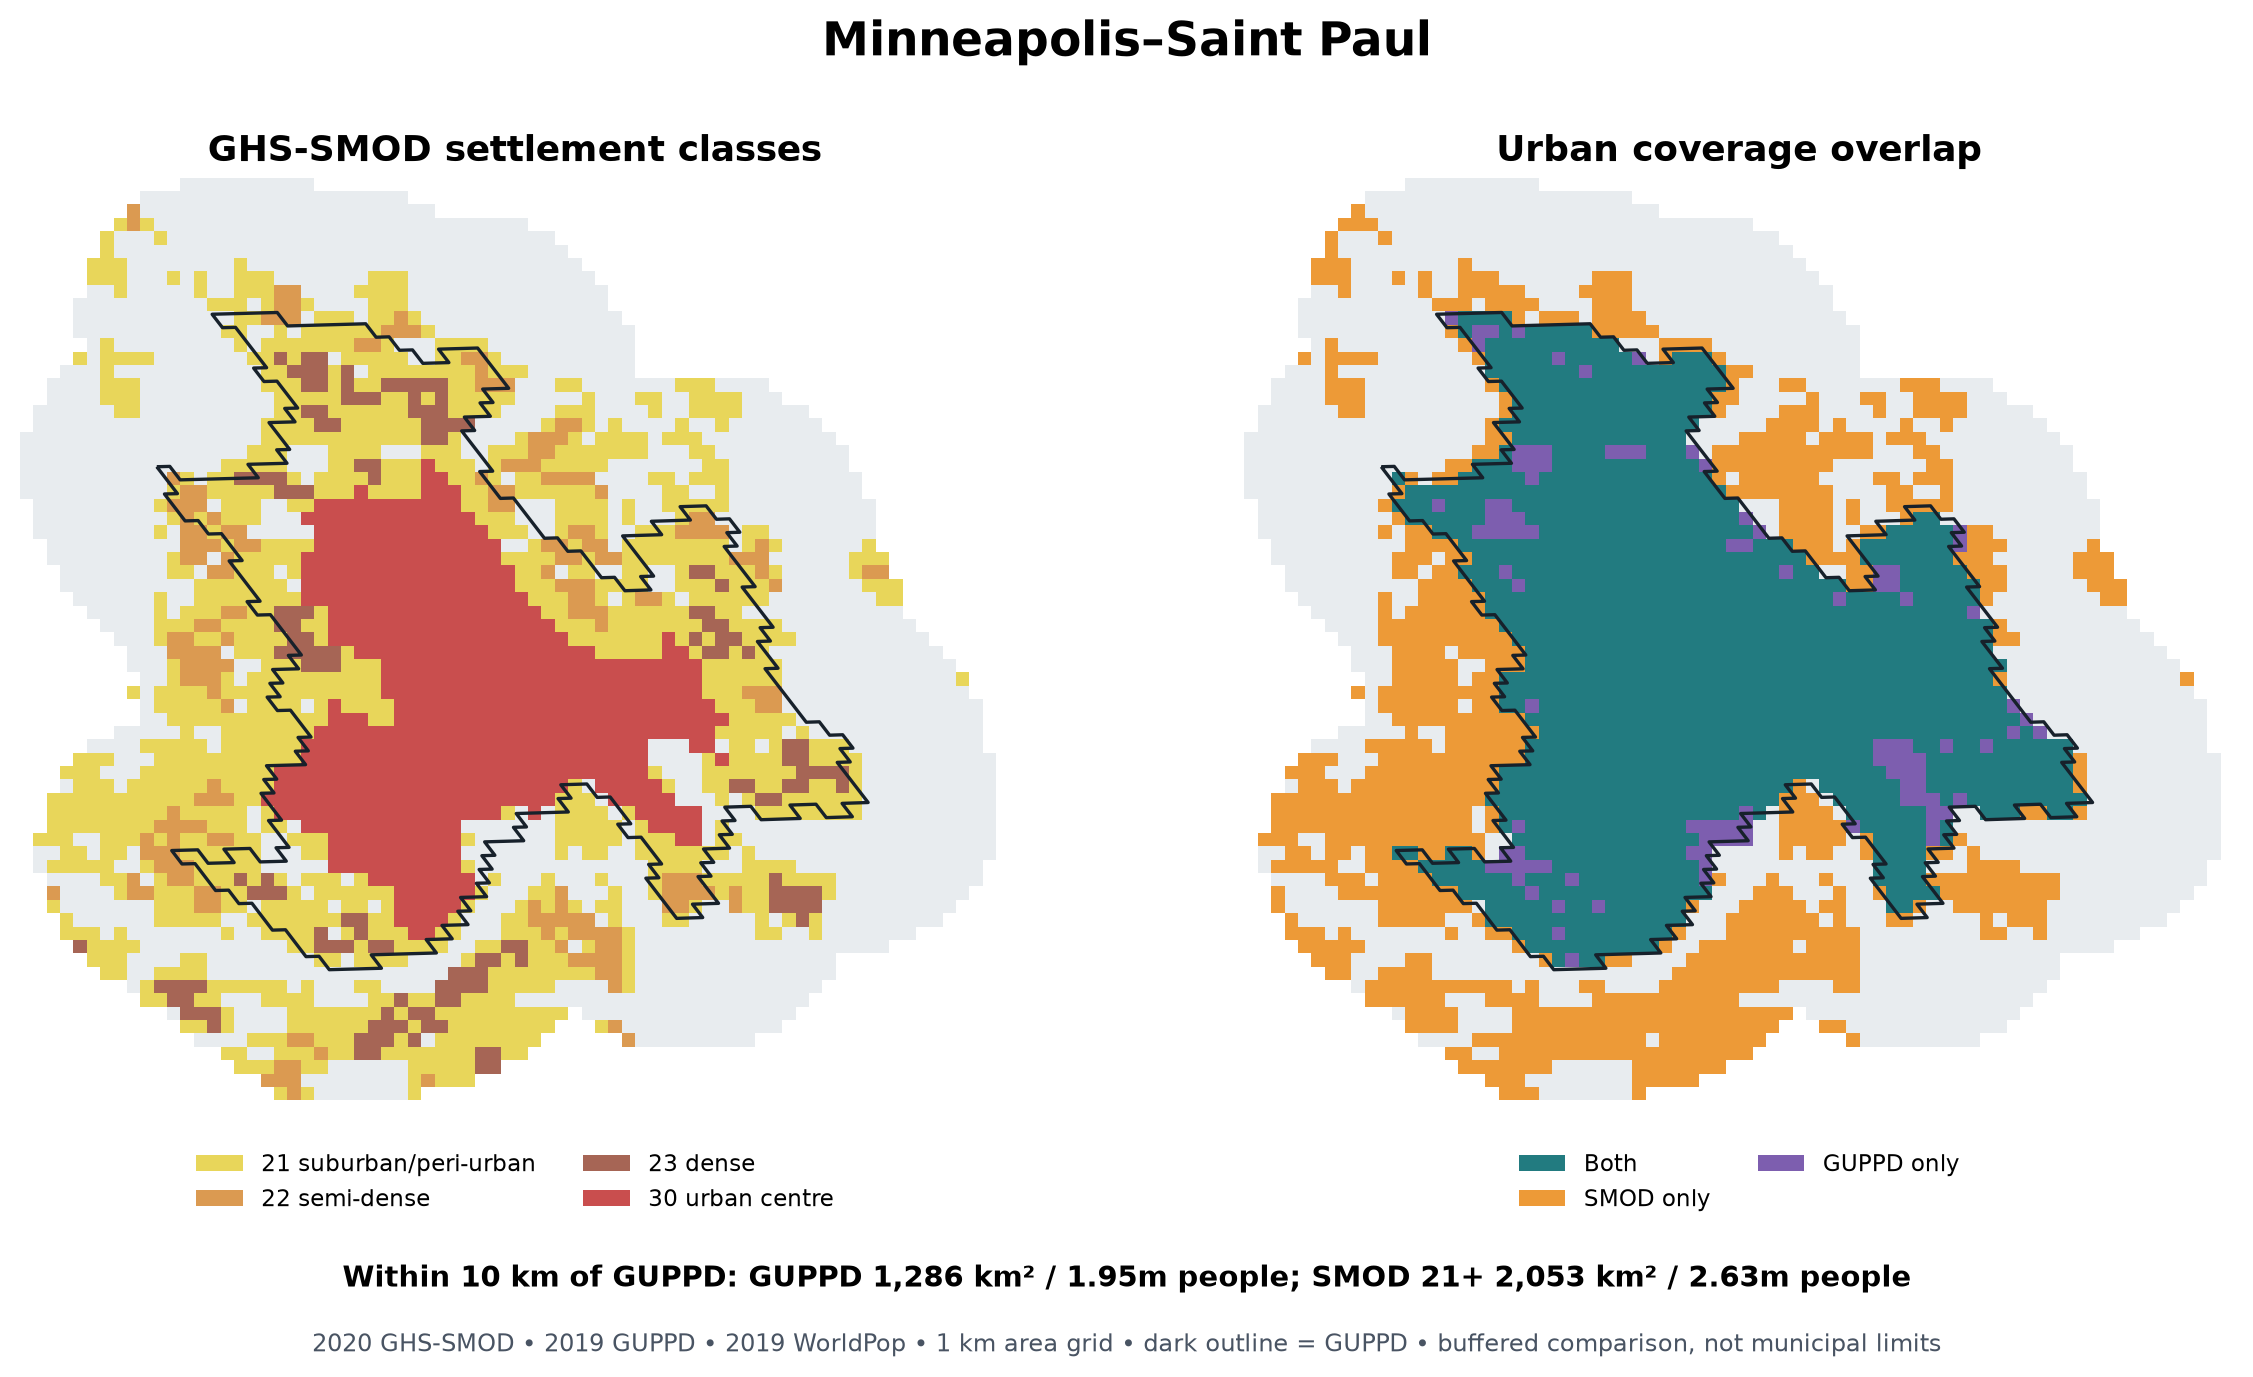
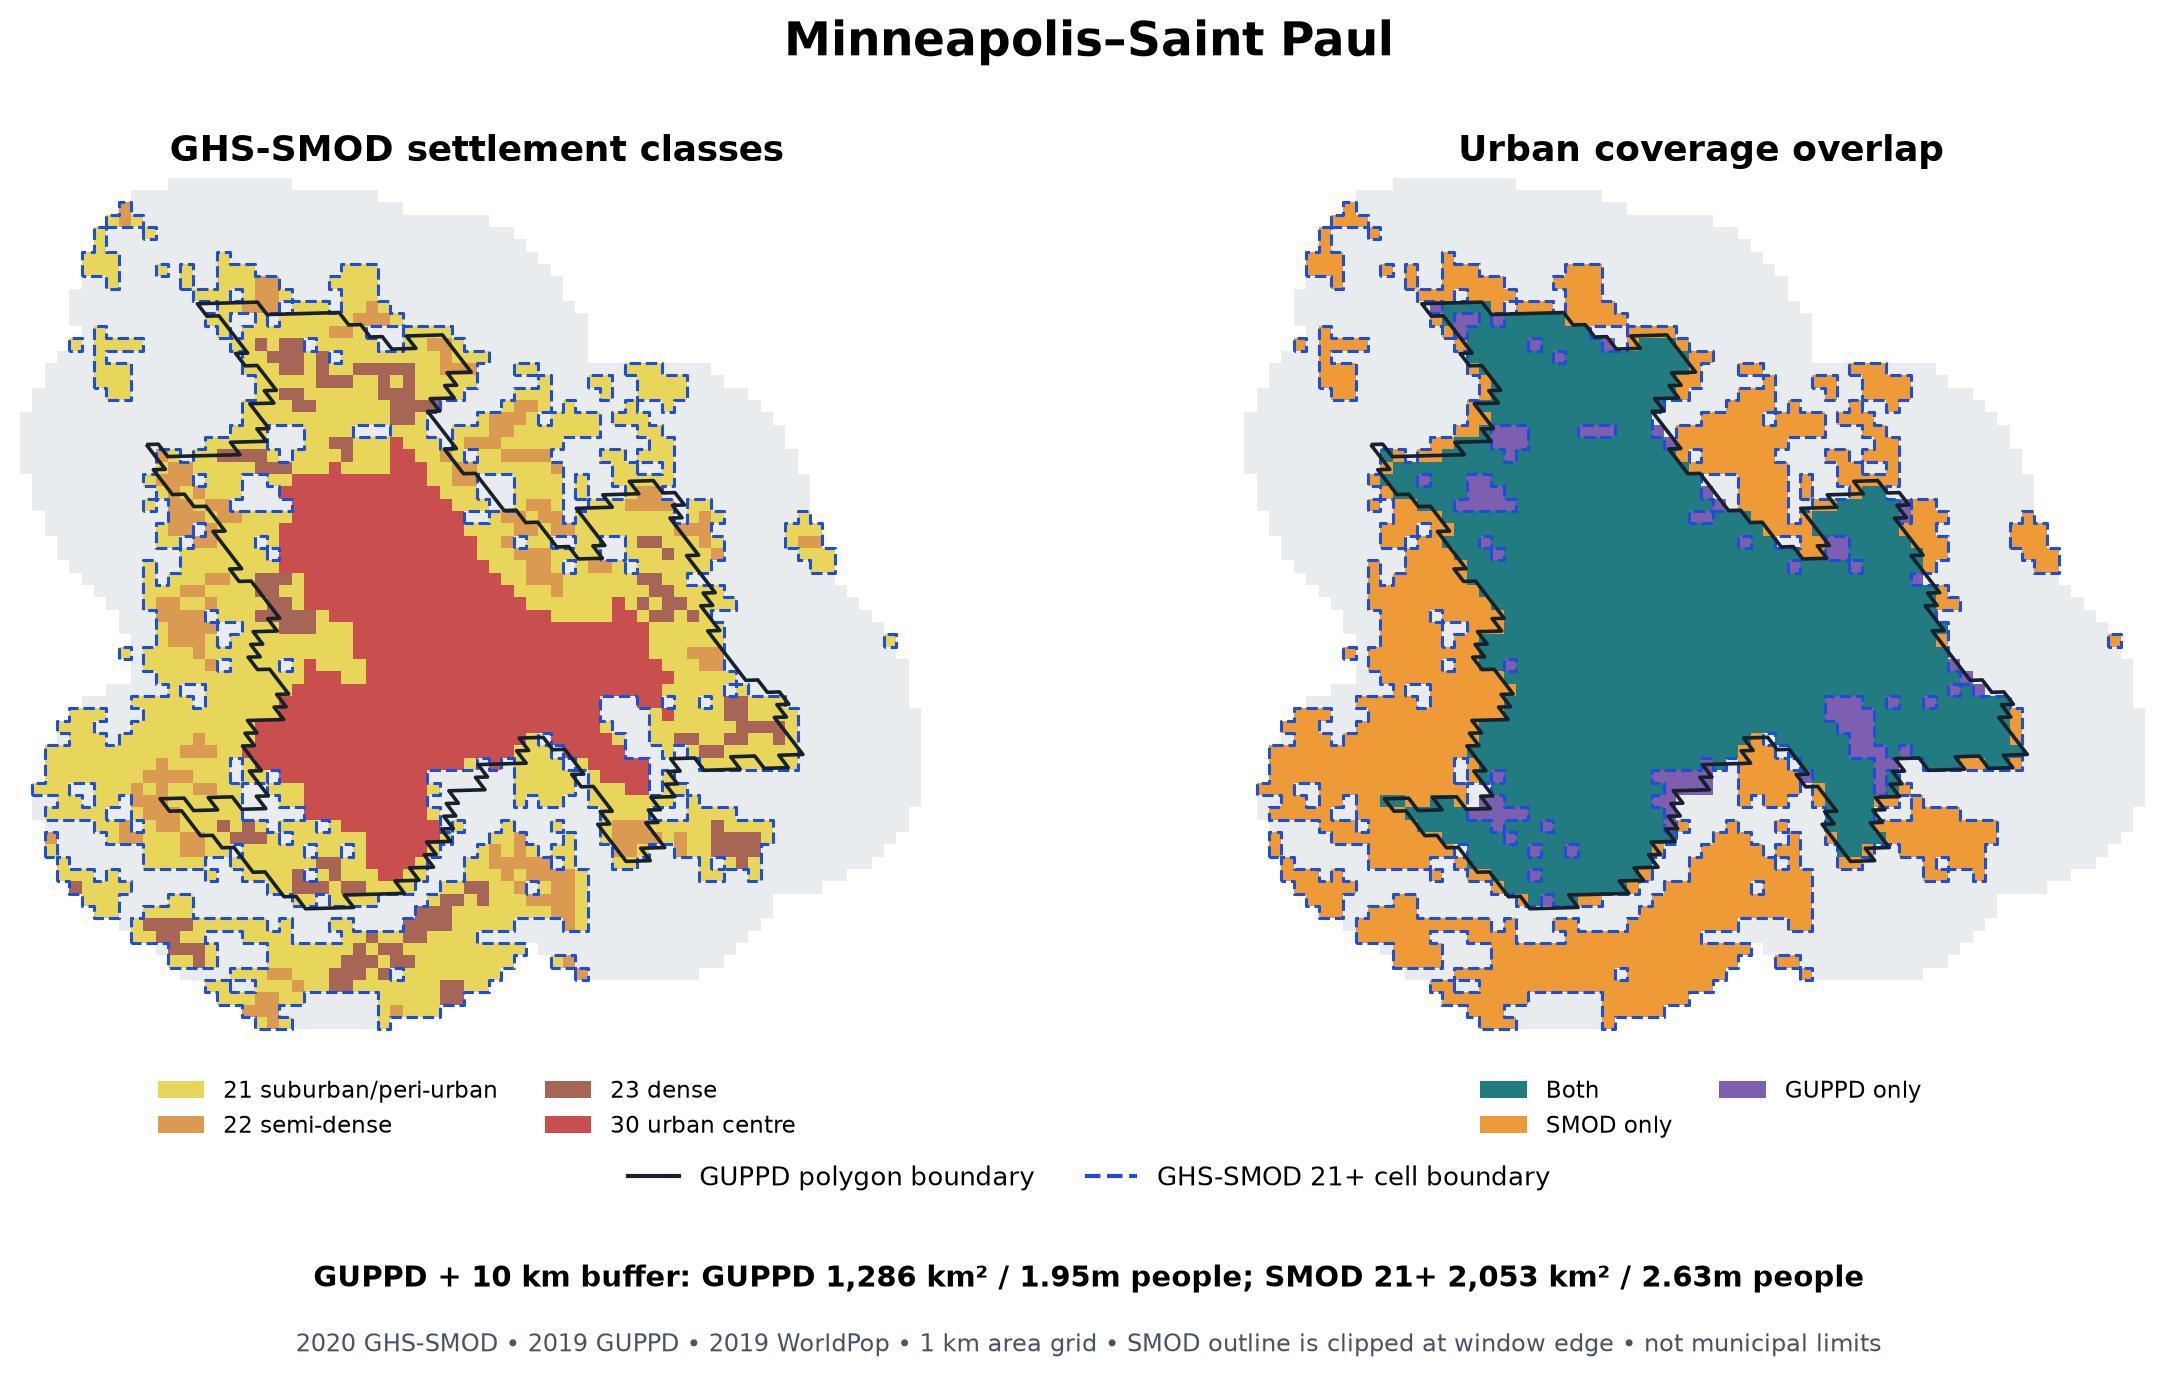
docs: clarify city comparison window and map boundaries

diff --git a/scripts/03_checks/compare_smod_guppd_cities.py b/scripts/03_checks/compare_smod_guppd_cities.py
@@ -24,12 +24,13 @@ matplotlib.use('Agg')
 import matplotlib.pyplot as plt
 from matplotlib.colors import ListedColormap
 from matplotlib.patches import Patch
+from matplotlib.lines import Line2D
 import numpy as np
 import rasterio
-from rasterio.features import geometry_mask
+from rasterio.features import geometry_mask, shapes
 from rasterio.warp import Resampling, reproject
 from rasterio.windows import from_bounds
-from shapely.geometry import box, mapping
+from shapely.geometry import box, mapping, shape
 
 ROOT = Path(__file__).resolve().parents[2]
 DATA = ROOT / 'data'
@@ -116,16 +117,26 @@ def plot_city(path: Path, label: str, smod, src, polygon, in_buffer, in_guppd, i
     extent = (src.bounds.left, src.bounds.right,
               src.bounds.bottom, src.bounds.top)
     fig, axes = plt.subplots(1, 2, figsize=(12.6, 7.2))
-    fig.subplots_adjust(left=0.03, right=0.97, top=0.87, bottom=0.22, wspace=0.07)
+    fig.subplots_adjust(left=0.03, right=0.97, top=0.87, bottom=0.27, wspace=0.07)
     class_cmap = ListedColormap(['#e8ecef', '#e8d65a', '#db9a51', '#a66555', '#c94e4e', '#ffffff'])
     overlap_cmap = ListedColormap(['#e8ecef', '#227b80', '#ed9a37', '#7d5eaf', '#ffffff'])
     axes[0].imshow(class_image, cmap=class_cmap, vmin=0, vmax=5,
                    interpolation='nearest', extent=extent, origin='upper')
     axes[1].imshow(overlap, cmap=overlap_cmap, vmin=0, vmax=4,
                    interpolation='nearest', extent=extent, origin='upper')
-    boundary = gpd.GeoSeries([polygon], crs=5070).boundary
+    # Vectorize the selected SMOD cells so its outline follows actual 1 km cell
+    # edges. This is the mask clipped to the 10 km display window, not a named city.
+    smod_polygons = [shape(geometry) for geometry, value in shapes(
+        in_smod.astype('uint8'), mask=in_smod, transform=src.transform)
+        if value == 1]
+    smod_boundary = gpd.GeoSeries(smod_polygons, crs=5070).boundary
+    guppd_boundary = gpd.GeoSeries([polygon], crs=5070).boundary
     for ax in axes:
-        boundary.plot(ax=ax, color='#17212b', linewidth=1.2)
+        smod_boundary.plot(ax=ax, color='#1d4ed8', linewidth=1.1,
+                           linestyle='--', zorder=4)
+        guppd_boundary.plot(ax=ax, color='#17212b', linewidth=1.3, zorder=5)
+        ax.set_xlim(src.bounds.left, src.bounds.right)
+        ax.set_ylim(src.bounds.bottom, src.bounds.top)
         ax.set_aspect('equal')
         ax.set_xticks([])
         ax.set_yticks([])
@@ -143,14 +154,21 @@ def plot_city(path: Path, label: str, smod, src, polygon, in_buffer, in_guppd, i
         ('#7d5eaf', 'GUPPD only')]], loc='upper center', bbox_to_anchor=(0.5, -0.02), ncol=2,
         fontsize=8.4, frameon=False)
     fig.suptitle(label, fontsize=17, weight='bold')
+    fig.legend(handles=[
+        Line2D([0], [0], color='#17212b', linewidth=1.5,
+               label='GUPPD polygon boundary'),
+        Line2D([0], [0], color='#1d4ed8', linewidth=1.5, linestyle='--',
+               label='GHS-SMOD 21+ cell boundary'),
+    ], loc='lower center', bbox_to_anchor=(0.5, 0.15), ncol=2,
+        frameon=False, fontsize=9.2)
     fig.text(0.5, 0.10,
-             f"Within 10 km of GUPPD: GUPPD {area['guppd']:,.0f} km² / "
+             f"GUPPD + 10 km buffer: GUPPD {area['guppd']:,.0f} km² / "
              f"{population['guppd']/1e6:.2f}m people; SMOD 21+ "
              f"{area['smod_21_plus']:,.0f} km² / {population['smod_21_plus']/1e6:.2f}m people",
              ha='center', fontsize=10.5, weight='bold')
     fig.text(0.5, 0.055,
              '2020 GHS-SMOD • 2019 GUPPD • 2019 WorldPop • 1 km area grid • '
-             'dark outline = GUPPD • buffered comparison, not municipal limits',
+             'SMOD outline is clipped at window edge • not municipal limits',
              ha='center', fontsize=8.5, color='#495463')
     path.parent.mkdir(parents=True, exist_ok=True)
     fig.savefig(path, dpi=200, bbox_inches='tight', facecolor='white')

diff --git a/docs/evidence/chiara_global_invest_comparison.md b/docs/evidence/chiara_global_invest_comparison.md
@@ -25,7 +25,7 @@ The [parameter rows](https://github.com/NatCapTEEMs/global_invest_dev/blob/f3059
 
 ## Two-city urban-coverage demonstration
 
-The figures compare one **level-30 GUPPD urban region** for each named city with GHS-SMOD codes 21+ **within 10 km of that GUPPD polygon**. The San Francisco feature covers the wider Bay Area, and the Minneapolis feature includes Saint Paul; neither is a municipal boundary. The buffer makes nearby SMOD additions visible but can include other adjacent settlements. Values are therefore a bounded comparison, not a city-level allocation or a national extrapolation.
+The figures compare one **level-30 GUPPD urban region** for each named city with GHS-SMOD codes 21+ inside that polygon and nearby. GHS-SMOD is a national raster mask, so it has no polygon corresponding exactly to a named GUPPD city. We used the polygon **plus a 10 km buffer as a local comparison window** to display nearby included cells without counting distant urban areas. Ten kilometres is a pragmatic, arbitrary window: SMOD-only area and population totals depend on it, and the blue SMOD outline is clipped at its edge. Neither Chiara’s national model nor our GUPPD model uses this buffer as an urban definition. The San Francisco feature covers the wider Bay Area, and the Minneapolis feature includes Saint Paul; neither is a municipal boundary. The within-GUPPD overlap is less sensitive to the window than the added-area totals. This example is not a city-level allocation or a national extrapolation.
 
 | Region | GUPPD area | SMOD 21+ area | Area added net | GUPPD population | SMOD 21+ population | Population added net |
 | --- | ---: | ---: | ---: | ---: | ---: | ---: |
@@ -33,6 +33,8 @@ The figures compare one **level-30 GUPPD urban region** for each named city with
 | Minneapolis–Saint Paul | 1,286 km² | 2,053 km² | **+59.6%** | 1.95 million | 2.63 million | **+34.7%** |
 
 Most GUPPD population is also in SMOD 21+: **99.4%** in the Bay Area region and **98.5%** in Minneapolis–Saint Paul on the common WorldPop population grid. The extra SMOD-only areas contain about **0.53 million** and **0.71 million** people, respectively; GUPPD-only areas contain about 0.03 million in each. These are support differences, not predicted depression cases. The mapped SMOD-only areas include suburban/peri-urban cells and, in the Bay Area buffer, some separate urban-centre cells.
+
+Both maps draw the **GUPPD polygon in solid black** and the **GHS-SMOD 21+ raster-cell boundary in dashed blue**. The latter is clipped at the buffer edge.
 
 ![San Francisco Bay Area GHS-SMOD classes and overlap with GUPPD](figures/smod_guppd_san_francisco.png)
 
